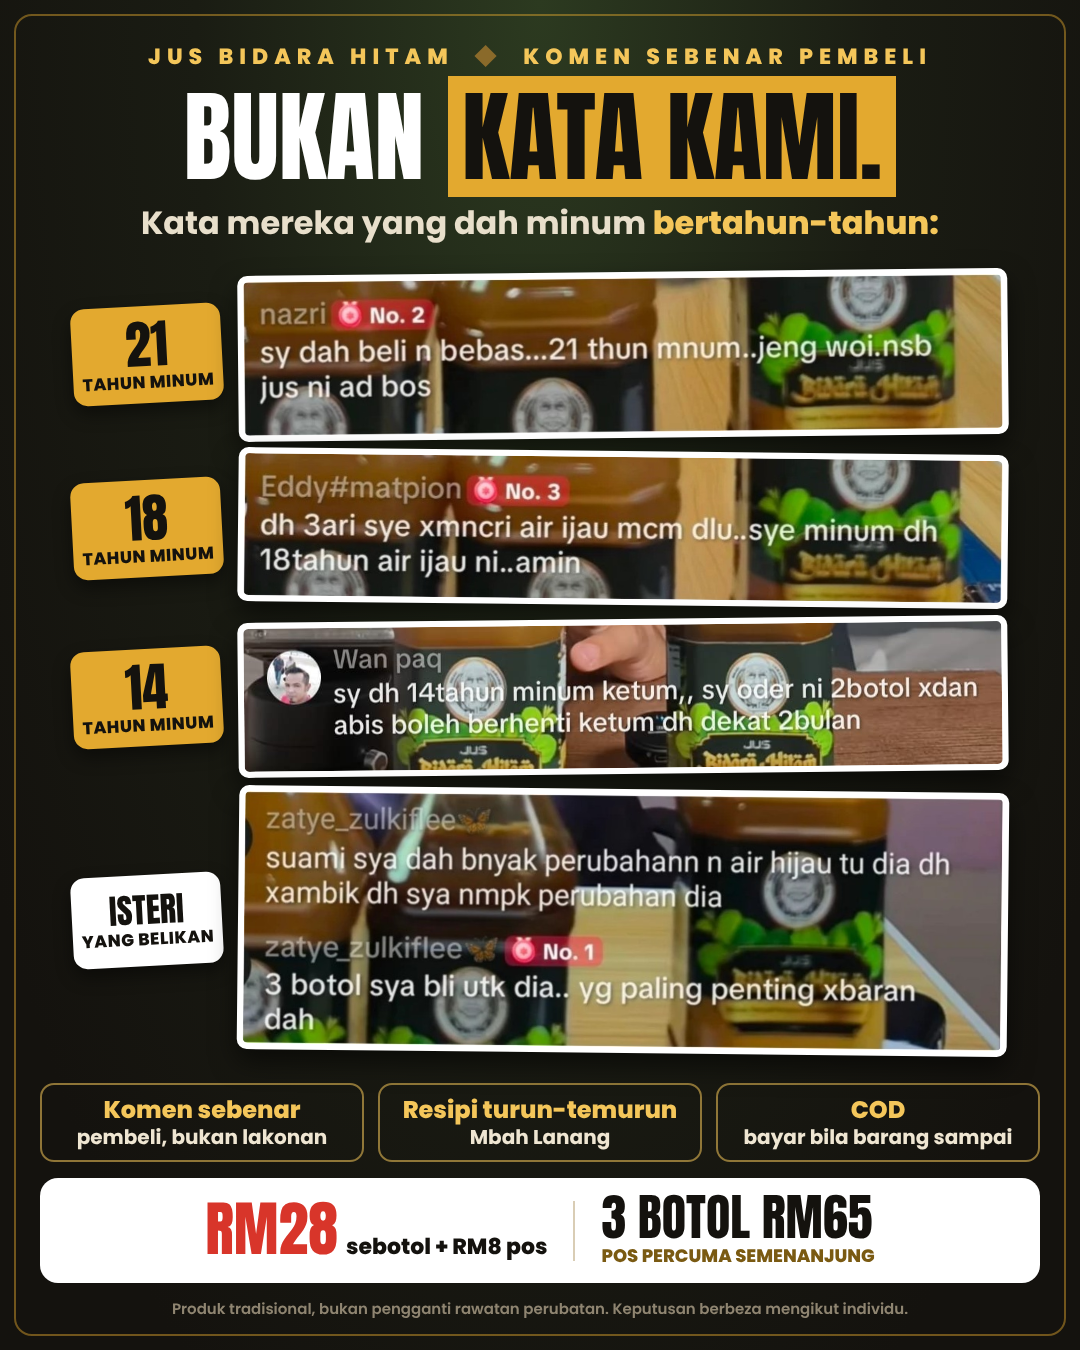
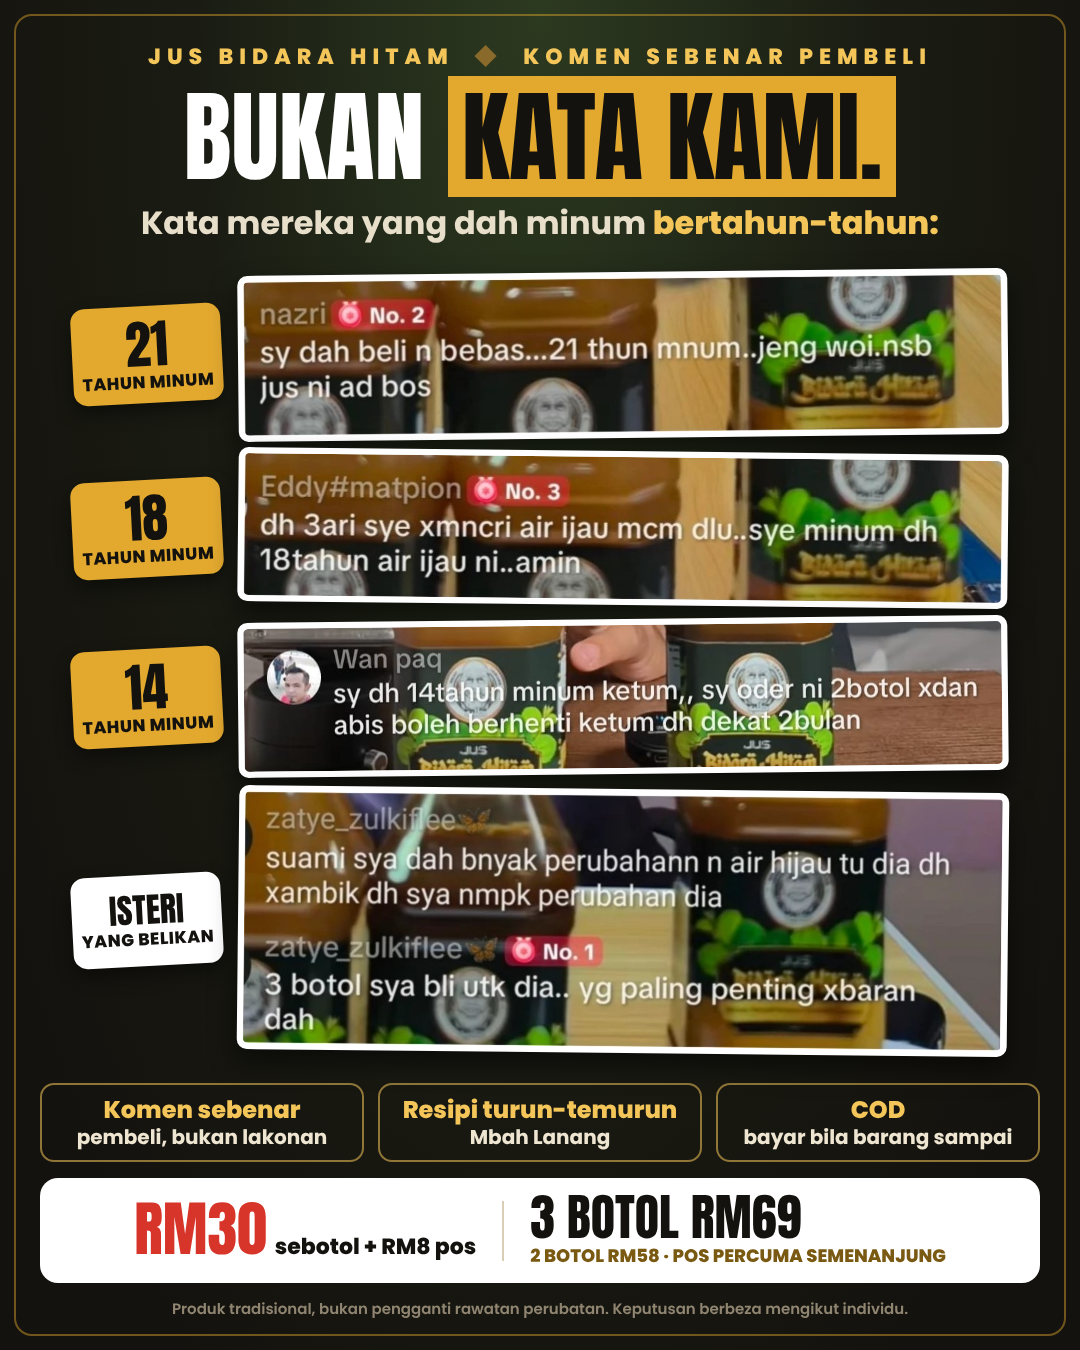
Posters: new pricing RM30 (+RM8 pos), 2 botol RM58, 3 botol RM69 free pos
Claude-Session: https://claude.ai/code/session_01WNDg5CVQaZ8heWyLhLUpEr

Changed region(s): [[0.1222, 0.8711, 0.8861, 0.9333]]

diff --git a/poster-closing/set-2/sumber/poster2.html b/poster-closing/set-2/sumber/poster2.html
@@ -77,7 +77,7 @@
   <div class="cnt"><b>35+</b><span>komen sebenar</span></div>
   <div class="board" id="board"></div>
   <div class="disc">Komen sebenar pembeli. Keputusan berbeza mengikut individu.</div>
-  <div class="bar"><img src="use2/produk-botol.jpg"><div class="p"><b>RM28<small>sebotol + RM8 pos</small></b><span>3 botol RM65 + pos percuma · COD</span></div><div class="cta">Balas "NAK"<small>untuk tempah</small></div></div>
+  <div class="bar"><img src="use2/produk-botol.jpg"><div class="p"><b>RM30<small>sebotol + RM8 pos</small></b><span>2 botol RM58 · 3 botol RM69 · pos percuma · COD</span></div><div class="cta">Balas "NAK"<small>untuk tempah</small></div></div>
 </div>
 
 <!-- 2 KIRA JIMAT -->
@@ -94,7 +94,7 @@
   <div class="vs">VS</div>
   <div class="deal">
     <div class="t">Jus Bidara Hitam</div>
-    <div class="big">RM65</div>
+    <div class="big">RM69</div>
     <div class="s">3 botol · pos percuma · COD</div>
     <img src="use2/produk-botol.jpg">
   </div>
@@ -102,7 +102,7 @@
   <div class="stk" style="left:70px;top:690px;width:580px;transform:rotate(-1.5deg)"><div class="tape"></div><img src="use2/skarjohor.jpg"></div>
   <div class="stk" style="left:440px;top:800px;width:580px;transform:rotate(1.5deg);z-index:2"><div class="tape"></div><img src="use2/dendam.jpg"></div>
   <div class="disc">Komen sebenar pembeli. Keputusan berbeza mengikut individu.</div>
-  <div class="bar"><img src="use2/produk-botol.jpg"><div class="p"><b>3 BOTOL RM65</b><span>pos percuma Semenanjung · COD</span></div><div class="cta">Balas "NAK"<small>untuk tempah</small></div></div>
+  <div class="bar"><img src="use2/produk-botol.jpg"><div class="p"><b>3 BOTOL RM69</b><span>pos percuma Semenanjung · COD</span></div><div class="cta">Balas "NAK"<small>untuk tempah</small></div></div>
 </div>
 
 <!-- 3 HERO 21 TAHUN -->
@@ -116,7 +116,7 @@
   <div class="stk" style="left:60px;top:720px;width:470px;transform:rotate(-2deg)"><div class="tape"></div><img src="use2/eddy18.jpg"></div>
   <div class="stk" style="left:560px;top:730px;width:470px;transform:rotate(2deg)"><div class="tape"></div><img src="use2/hisyam.jpg"></div>
   <div class="disc">Komen sebenar pembeli. Keputusan berbeza mengikut individu.</div>
-  <div class="bar"><img src="use2/produk-botol.jpg"><div class="p"><b>RM28<small>sebotol + RM8 pos</small></b><span>3 botol RM65 + pos percuma · COD</span></div><div class="cta">Balas "NAK"<small>untuk tempah</small></div></div>
+  <div class="bar"><img src="use2/produk-botol.jpg"><div class="p"><b>RM30<small>sebotol + RM8 pos</small></b><span>2 botol RM58 · 3 botol RM69 · pos percuma · COD</span></div><div class="cta">Balas "NAK"<small>untuk tempah</small></div></div>
 </div>
 
 <!-- 4 AJAK KAWAN -->
@@ -130,7 +130,7 @@
   <div class="stk" style="left:600px;top:760px;width:430px;transform:rotate(3deg);z-index:2"><div class="tape"></div><img src="use2/hazwan.jpg"></div>
   <div class="heart" style="left:40px;top:520px;transform:rotate(-14deg)">♥</div>
   <div class="disc">Komen sebenar pembeli. Keputusan berbeza mengikut individu.</div>
-  <div class="bar"><img src="use2/produk-botol.jpg"><div class="p"><b>RM28<small>sebotol + RM8 pos</small></b><span>3 botol RM65 + pos percuma · COD</span></div><div class="cta">Balas "NAK"<small>untuk tempah</small></div></div>
+  <div class="bar"><img src="use2/produk-botol.jpg"><div class="p"><b>RM30<small>sebotol + RM8 pos</small></b><span>2 botol RM58 · 3 botol RM69 · pos percuma · COD</span></div><div class="cta">Balas "NAK"<small>untuk tempah</small></div></div>
 </div>
 
 <script>

diff --git a/poster-closing/sumber/poster.html b/poster-closing/sumber/poster.html
@@ -49,7 +49,7 @@
     <div class="stk" style="width:800px"><img src="use/hisyam15.jpg"></div>
     <div class="stk" style="width:800px"><img src="use/hamba32.jpg"></div>
   </div>
-  <div class="foot"><img src="use/produk-botol.jpg"><div class="p"><b>RM28<small>sebotol + RM8 pos</small></b><span>3 botol RM65 + pos percuma · COD</span></div><div class="cta">Balas "NAK"<small>untuk tempah</small></div></div>
+  <div class="foot"><img src="use/produk-botol.jpg"><div class="p"><b>RM30<small>sebotol + RM8 pos</small></b><span>2 botol RM58 · 3 botol RM69 · pos percuma · COD</span></div><div class="cta">Balas "NAK"<small>untuk tempah</small></div></div>
   <div class="disc">Komen sebenar pembeli. Keputusan berbeza mengikut individu.</div>
 </div>
 
@@ -63,7 +63,7 @@
     <div class="stk" style="width:840px"><img src="use/eddysengal.jpg"></div>
     <div class="stk" style="width:840px"><img src="use/shahrizal.jpg"></div>
   </div>
-  <div class="foot"><img src="use/produk-botol.jpg"><div class="p"><b>RM28<small>sebotol + RM8 pos</small></b><span>3 botol RM65 + pos percuma · COD</span></div><div class="cta">Balas "NAK"<small>untuk tempah</small></div></div>
+  <div class="foot"><img src="use/produk-botol.jpg"><div class="p"><b>RM30<small>sebotol + RM8 pos</small></b><span>2 botol RM58 · 3 botol RM69 · pos percuma · COD</span></div><div class="cta">Balas "NAK"<small>untuk tempah</small></div></div>
   <div class="disc">Komen sebenar pembeli. Keputusan berbeza mengikut individu.</div>
 </div>
 
@@ -76,7 +76,7 @@
     <div class="stk" style="width:840px"><img src="use/zatye.jpg"></div>
     <div class="stk" style="width:840px"><img src="use/intan.jpg"></div>
   </div>
-  <div class="foot"><img src="use/produk-botol.jpg"><div class="p"><b>RM28<small>sebotol + RM8 pos</small></b><span>3 botol RM65 + pos percuma · COD</span></div><div class="cta">Balas "NAK"<small>untuk tempah</small></div></div>
+  <div class="foot"><img src="use/produk-botol.jpg"><div class="p"><b>RM30<small>sebotol + RM8 pos</small></b><span>2 botol RM58 · 3 botol RM69 · pos percuma · COD</span></div><div class="cta">Balas "NAK"<small>untuk tempah</small></div></div>
   <div class="disc">Komen sebenar pembeli. Keputusan berbeza mengikut individu.</div>
 </div>
 
@@ -91,7 +91,7 @@
     <div class="row"><div class="pill">2<small>BOTOL</small></div><div class="stk" style="width:780px"><img src="use/skarjohor.jpg"></div></div>
     <div class="row"><div class="pill hot">3<small>BOTOL</small></div><div class="stk" style="width:780px"><img src="use/roy.jpg"></div></div>
   </div>
-  <div class="foot"><img src="use/produk-botol.jpg"><div class="p"><b>3 BOTOL RM65</b><span>paling berbaloi · pos percuma Semenanjung · COD</span></div><div class="cta">Balas "NAK"<small>untuk tempah</small></div></div>
+  <div class="foot"><img src="use/produk-botol.jpg"><div class="p"><b>3 BOTOL RM69</b><span>paling berbaloi · pos percuma Semenanjung · COD</span></div><div class="cta">Balas "NAK"<small>untuk tempah</small></div></div>
   <div class="disc">Komen sebenar pembeli. Keputusan berbeza mengikut individu.</div>
 </div>
 

diff --git a/poster-closing/set-3/sumber/poster3.html b/poster-closing/set-3/sumber/poster3.html
@@ -99,7 +99,7 @@
     <div class="it"><b>32 HARI</b><div class="proof"><img src="use3/hamba.jpg"></div></div>
   </div>
   <div class="disc">Komen sebenar pembeli. Keputusan berbeza mengikut individu.</div>
-  <div class="bar"><img src="use3/produk-botol.jpg"><div class="p"><b>RM28<small>sebotol + RM8 pos</small></b><span>3 botol RM65 + pos percuma · COD</span></div><div class="cta">Balas "NAK"<small>untuk tempah</small></div></div>
+  <div class="bar"><img src="use3/produk-botol.jpg"><div class="p"><b>RM30<small>sebotol + RM8 pos</small></b><span>2 botol RM58 · 3 botol RM69 · pos percuma · COD</span></div><div class="cta">Balas "NAK"<small>untuk tempah</small></div></div>
 </div>
 
 <!-- 10 AKHBAR -->
@@ -119,7 +119,7 @@
     <div class="kick">Kata ibu</div><div class="proof"><img src="use3/intan.jpg"></div>
   </div>
   <div class="disc">Komen sebenar pembeli. Keputusan berbeza mengikut individu.</div>
-  <div class="bar"><img src="use3/produk-botol.jpg"><div class="p"><b>RM28<small>sebotol + RM8 pos</small></b><span>3 botol RM65 + pos percuma · COD</span></div><div class="cta">Balas "NAK"<small>untuk tempah</small></div></div>
+  <div class="bar"><img src="use3/produk-botol.jpg"><div class="p"><b>RM30<small>sebotol + RM8 pos</small></b><span>2 botol RM58 · 3 botol RM69 · pos percuma · COD</span></div><div class="cta">Balas "NAK"<small>untuk tempah</small></div></div>
 </div>
 
 <!-- 11 PETIKAN MINIMAL -->
@@ -131,7 +131,7 @@
   <div class="lbl">Bukti komen asal:</div>
   <div class="proof" style="left:80px;top:705px;width:920px"><img src="use3/baba.jpg"></div>
   <div class="disc">Komen sebenar pembeli. Keputusan berbeza mengikut individu.</div>
-  <div class="bar"><img src="use3/produk-botol.jpg"><div class="p"><b>RM28<small>sebotol + RM8 pos</small></b><span>3 botol RM65 + pos percuma · COD</span></div><div class="cta">Balas "NAK"<small>untuk tempah</small></div></div>
+  <div class="bar"><img src="use3/produk-botol.jpg"><div class="p"><b>RM30<small>sebotol + RM8 pos</small></b><span>2 botol RM58 · 3 botol RM69 · pos percuma · COD</span></div><div class="cta">Balas "NAK"<small>untuk tempah</small></div></div>
 </div>
 
 <!-- 12 KAD PENILAIAN -->
@@ -145,7 +145,7 @@
   </div>
   <div class="proof babaP"><img src="use3/baba.jpg"></div>
   <div class="disc">Komen sebenar pembeli. Keputusan berbeza mengikut individu.</div>
-  <div class="bar"><img src="use3/produk-botol.jpg"><div class="p"><b>RM28<small>sebotol + RM8 pos</small></b><span>3 botol RM65 + pos percuma · COD</span></div><div class="cta">Balas "NAK"<small>untuk tempah</small></div></div>
+  <div class="bar"><img src="use3/produk-botol.jpg"><div class="p"><b>RM30<small>sebotol + RM8 pos</small></b><span>2 botol RM58 · 3 botol RM69 · pos percuma · COD</span></div><div class="cta">Balas "NAK"<small>untuk tempah</small></div></div>
 </div>
 
 <script>

diff --git a/poster-meta/sumber/meta.html b/poster-meta/sumber/meta.html
@@ -58,8 +58,8 @@
     </div>
   </div>
   <div class="offer">
-    <div class="one"><b>RM28</b><span>sebotol + RM8 pos</span></div>
-    <div class="best"><div class="rib">★ PALING BERBALOI ★</div><b>3 BOTOL RM65</b><span>POS PERCUMA SEMENANJUNG</span></div>
+    <div class="one"><b>RM30</b><span>sebotol + RM8 pos</span></div>
+    <div class="best"><div class="rib">★ PALING BERBALOI ★</div><b>3 BOTOL RM69</b><span>2 BOTOL RM58 · POS PERCUMA SEMENANJUNG</span></div>
   </div>
   <div class="perks"><span>✔ COD seluruh Malaysia</span></div>
   <div class="disc">Produk tradisional, bukan pengganti rawatan perubatan. Komen sebenar pembeli; keputusan berbeza mengikut individu.</div>

diff --git a/poster-meta/sumber/meta2.html b/poster-meta/sumber/meta2.html
@@ -63,9 +63,9 @@
     </div>
   </div>
   <div class="price">
-    <div class="p1"><b>RM28</b><small>sebotol + RM8 pos</small></div>
+    <div class="p1"><b>RM30</b><small>sebotol + RM8 pos</small></div>
     <div class="sep"></div>
-    <div class="p2"><b>3 BOTOL RM65</b><span>POS PERCUMA SEMENANJUNG</span></div>
+    <div class="p2"><b>3 BOTOL RM69</b><span>2 BOTOL RM58 · POS PERCUMA SEMENANJUNG</span></div>
   </div>
   <div class="foot"><div class="cod">✔ COD seluruh Malaysia</div><div class="disc">Produk tradisional, bukan pengganti rawatan perubatan. Komen sebenar pembeli; keputusan berbeza mengikut individu.</div></div>
 </div>

diff --git a/poster-meta/sumber/meta3.html b/poster-meta/sumber/meta3.html
@@ -55,9 +55,9 @@
     <div><b>COD</b>bayar bila barang sampai</div>
   </div>
   <div class="price">
-    <div class="p1"><b>RM28</b><small>sebotol + RM8 pos</small></div>
+    <div class="p1"><b>RM30</b><small>sebotol + RM8 pos</small></div>
     <div class="sep"></div>
-    <div class="p2"><b>3 BOTOL RM65</b><span>POS PERCUMA SEMENANJUNG</span></div>
+    <div class="p2"><b>3 BOTOL RM69</b><span>2 BOTOL RM58 · POS PERCUMA SEMENANJUNG</span></div>
   </div>
   <div class="disc">Produk tradisional, bukan pengganti rawatan perubatan. Keputusan berbeza mengikut individu.</div>
 </div>
